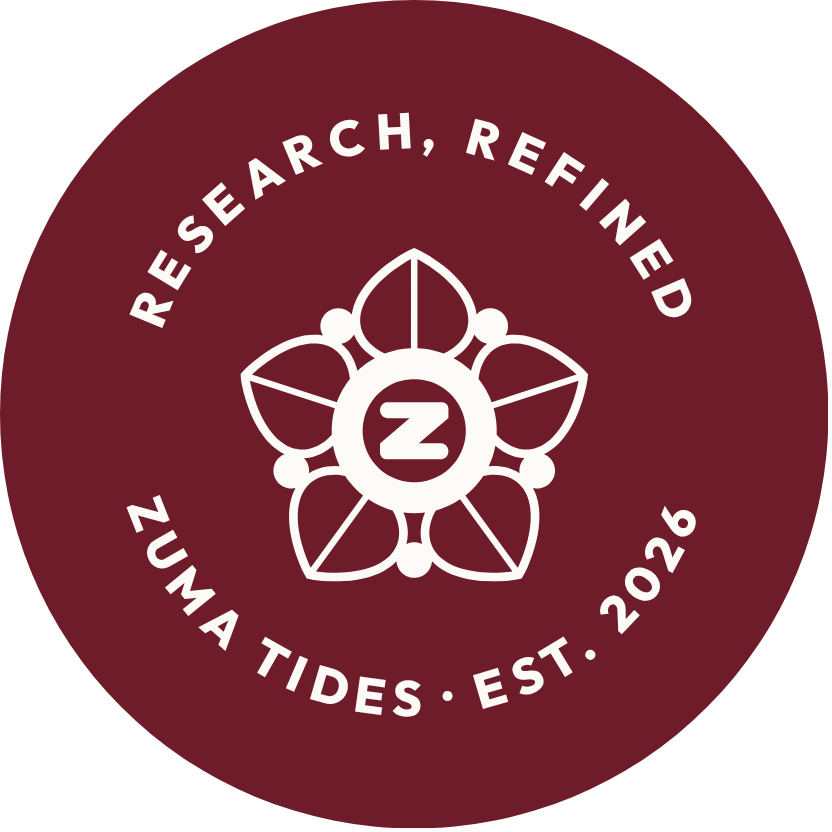
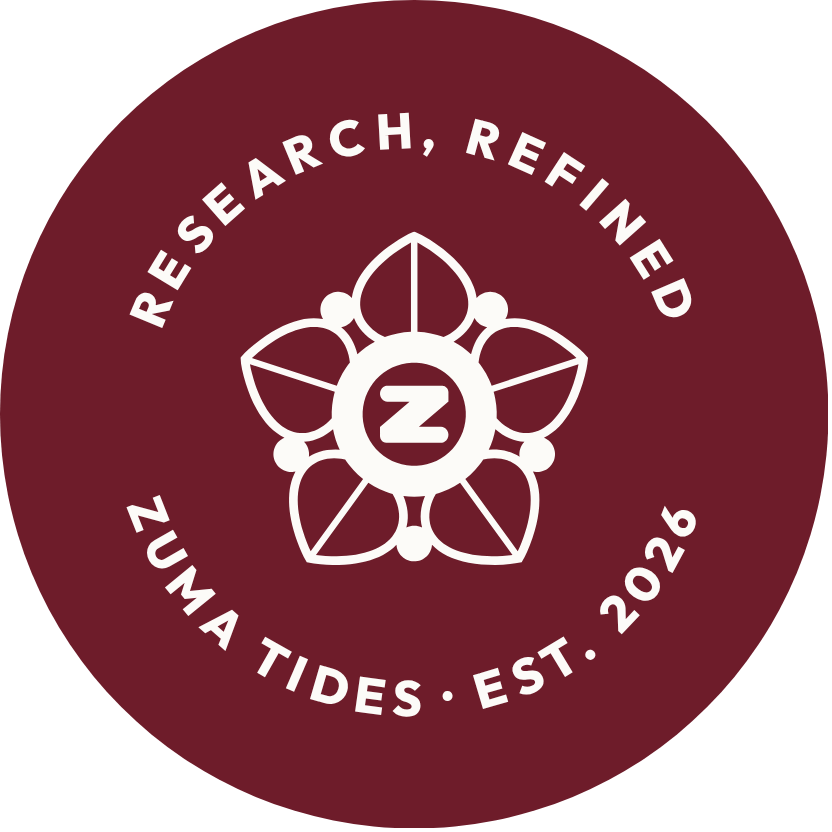
Mailer seal: centre the crest on its hub, not its outline
The flower is top-heavy, so centring its box left the Z hub 1.1 mm low.
The hub now sits on the exact centre of the seal.

Claude-Session: https://claude.ai/code/session_01WtTNMTJadupUSrfLNmJCKv

Changed region(s): [[0.2812, 0.2812, 0.7188, 0.7188]]

diff --git a/zuma-content/packaging/mailer-seal/seal-oxblood.html b/zuma-content/packaging/mailer-seal/seal-oxblood.html
@@ -21,7 +21,7 @@
 <svg viewBox="-27.4 -27.4 54.8 54.8" xmlns="http://www.w3.org/2000/svg">
 <circle r="27.4" fill="#6E1C2A"/>
 <defs><path id="top" d="M -17.6 0 A 17.6 17.6 0 0 1 17.6 0"/><path id="bot" d="M -20.0 0 A 20.0 20.0 0 0 0 20.0 0"/></defs>
-<use href="#zuma-mark" x="-11.5" y="-11.0" width="23" height="22.06" style="color:#FCFBF8"/>
+<use href="#zuma-mark" x="-11.5" y="-12.09" width="23" height="22.06" style="color:#FCFBF8"/>
 <text font-family="Outfit" font-weight="800" font-size="3.3" letter-spacing=".62" fill="#FCFBF8"><textPath href="#top" startOffset="50%" text-anchor="middle">RESEARCH, REFINED</textPath></text>
 <text font-family="Outfit" font-weight="800" font-size="3.3" letter-spacing=".62" fill="#FCFBF8"><textPath href="#bot" startOffset="50%" text-anchor="middle">ZUMA TIDES · EST. 2026</textPath></text>
 </svg></body></html>

diff --git a/zuma-content/packaging/mailer-seal/seal-snow.html b/zuma-content/packaging/mailer-seal/seal-snow.html
@@ -21,7 +21,7 @@
 <svg viewBox="-27.4 -27.4 54.8 54.8" xmlns="http://www.w3.org/2000/svg">
 <circle r="27.4" fill="#FCFBF8"/>
 <defs><path id="top" d="M -17.6 0 A 17.6 17.6 0 0 1 17.6 0"/><path id="bot" d="M -20.0 0 A 20.0 20.0 0 0 0 20.0 0"/></defs>
-<use href="#zuma-mark" x="-11.5" y="-11.0" width="23" height="22.06" style="color:#6E1C2A"/>
+<use href="#zuma-mark" x="-11.5" y="-12.09" width="23" height="22.06" style="color:#6E1C2A"/>
 <text font-family="Outfit" font-weight="800" font-size="3.3" letter-spacing=".62" fill="#6E1C2A"><textPath href="#top" startOffset="50%" text-anchor="middle">RESEARCH, REFINED</textPath></text>
 <text font-family="Outfit" font-weight="800" font-size="3.3" letter-spacing=".62" fill="#6E1C2A"><textPath href="#bot" startOffset="50%" text-anchor="middle">ZUMA TIDES · EST. 2026</textPath></text>
 </svg></body></html>
